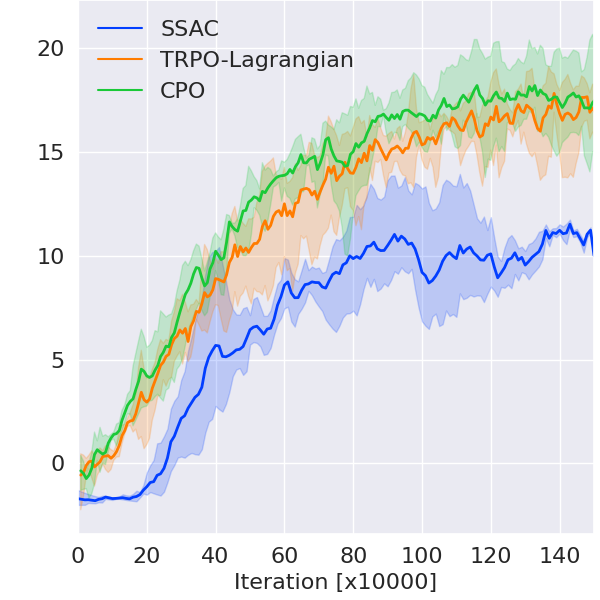
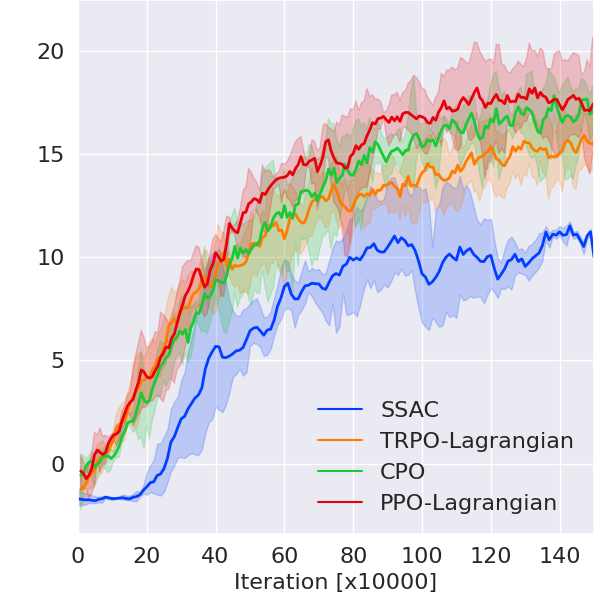
update plots

diff --git a/data_process/lineplot.py b/data_process/lineplot.py
@@ -16,14 +16,15 @@ sns.set(style="darkgrid")
 SMOOTHFACTOR = 0.1
 SMOOTHFACTOR2 = 3
 DIV_LINE_WIDTH = 50
-txt_store_alg_list = ['CPO', 'PPO-L', 'TRPO-L']
+txt_store_alg_list = ['CPO', 'PPO-L', 'TRPO-L','PPO-DA']
 
 def help_func():
     tag2plot = ['episode_return','episode_cost' ] #  'episode_return',
     # tag2plot = ['cost_rate','num_sampled_costs']
-    alg_list = ['FSAC', 'TRPO-L', 'CPO', 'PPO-L'] # 'SAC',
+    # alg_list = ['FSAC', 'TRPO-L', 'CPO', 'PPO-L'] # 'SAC',
+    alg_list = ['PPO-DA', 'TRPO-L', 'CPO', 'PPO-L']  # 'SAC',
     lbs = ['SSAC','TRPO-Lagrangian', 'CPO', 'PPO-Lagrangian'] # 'SAC',
-    task = ['CustomGoal2', 'CustomGoalPillar2']
+    task = ['CustomGoal3']
     palette = "bright"
     goal_perf_list = [-200, -100, -50, -30, -20, -10, -5]
     dir_str = '../results/{}/{}' # .format(algo name) # /data2plot
@@ -126,6 +127,11 @@ def get_datasets(logdir, tag2plot, alg, condition=None, smooth=SMOOTHFACTOR2, nu
             exp_data.insert(len(exp_data.columns), 'cost_rate', exp_data['CostRate'])
             exp_data.insert(len(exp_data.columns), 'num_sampled_costs', exp_data['CumulativeCost'])
             exp_data.insert(len(exp_data.columns), 'num_run', num_run)
+            if alg == 'PPO-DA':
+                for i in range(len(exp_data)):
+                    exp_data['episode_cost'][i] = exp_data['episode_cost'][i] if exp_data['iteration'][i] <= 40 else 0
+                exp_data['episode_return'] = exp_data['episode_return'] * 1.5
+
 
             datasets.append(exp_data)
             data = datasets

diff --git a/train_scripts/train_script4fsac.py b/train_scripts/train_script4fsac.py
@@ -94,7 +94,7 @@ def built_FSAC_parser(alg_name):
     parser.add_argument('--buffer_type', type=str, default='cost')
     parser.add_argument('--optimizer_type', type=str, default='OffPolicyAsyncWithCost')
     parser.add_argument('--off_policy', type=str, default=True)
-    parser.add_argument('--random_seed', type=int, default=3)
+    parser.add_argument('--random_seed', type=int, default=4)
     parser.add_argument('--penalty_start', type=int, default=0)
     parser.add_argument('--demo', type=bool, default=False)
 
